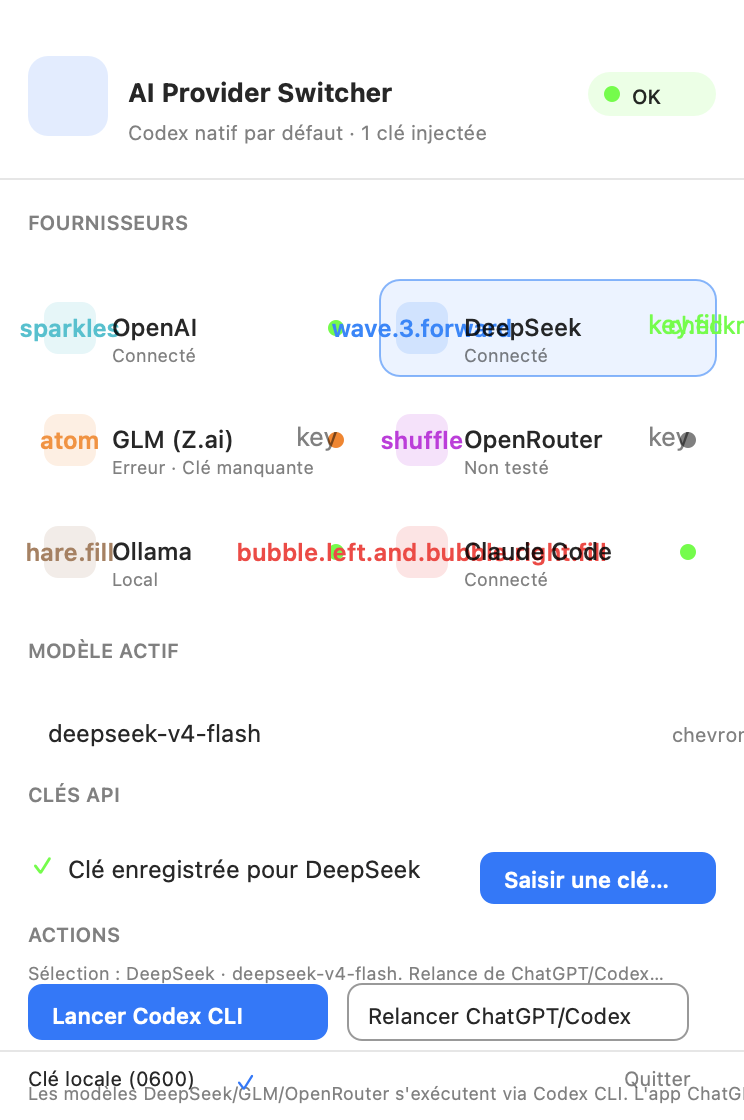
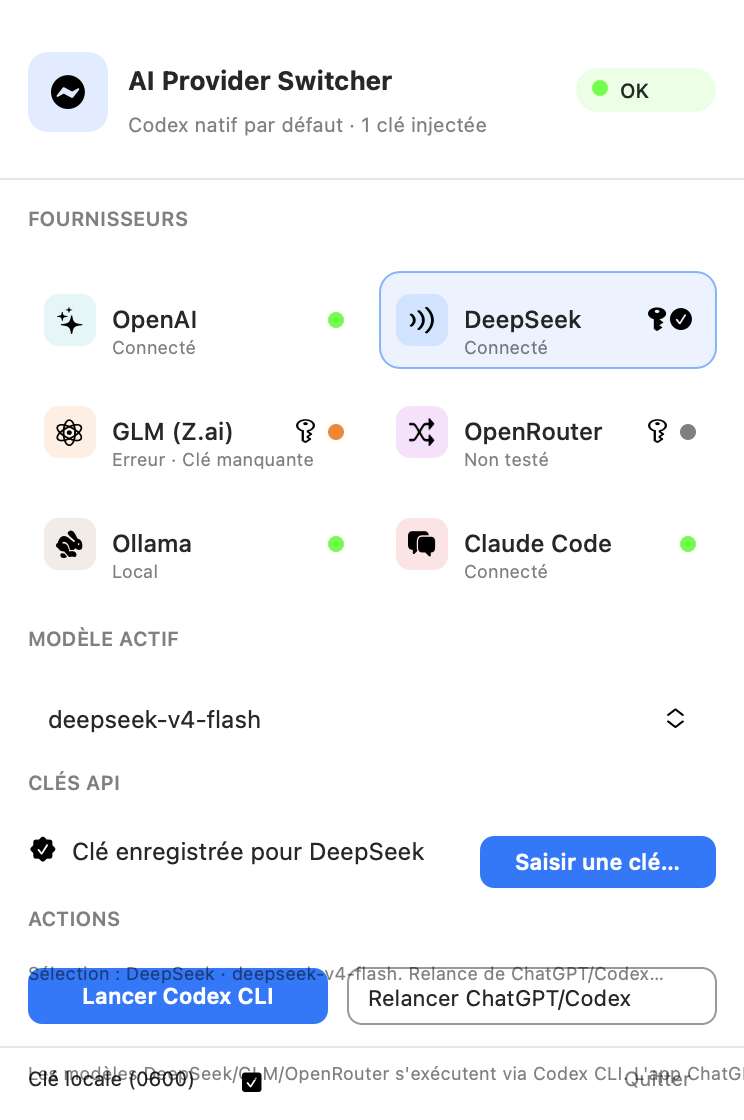
Capture panneau: maquette AppKit corrigée + mode --panel-screenshot
- docs/screenshots/panel.png: rendu fidèle (grille, statuts, clés, modèle, actions)
- AppState: fenêtre debug affichant le vrai PanelView avec --panel-screenshot

diff --git a/Sources/AIProviderSwitcher/AppState.swift b/Sources/AIProviderSwitcher/AppState.swift
@@ -54,6 +54,21 @@ final class AppState: ObservableObject {
         // Build the router/detect native config as soon as the app launches, so the
         // menu actions (select, key, launch) are wired before the user clicks.
         Task { await self.bootstrap() }
+        // Debug: `--panel-screenshot` shows the real panel in a window so it can
+        // be captured for the README (no menu bar interaction required).
+        if CommandLine.arguments.contains("--panel-screenshot") {
+            DispatchQueue.main.asyncAfter(deadline: .now() + 1.0) { [weak self] in
+                guard let self else { return }
+                let host = NSHostingController(rootView: PanelView(state: self))
+                let win = NSWindow(contentViewController: host)
+                win.styleMask = [.titled, .closable]
+                win.titleVisibility = .hidden
+                win.setContentSize(NSSize(width: 372, height: 660))
+                win.center()
+                win.makeKeyAndOrderFront(nil)
+                NSApp.activate(ignoringOtherApps: true)
+            }
+        }
     }
 
     // MARK: Logging (kept in-memory; drives the status line + journal)
